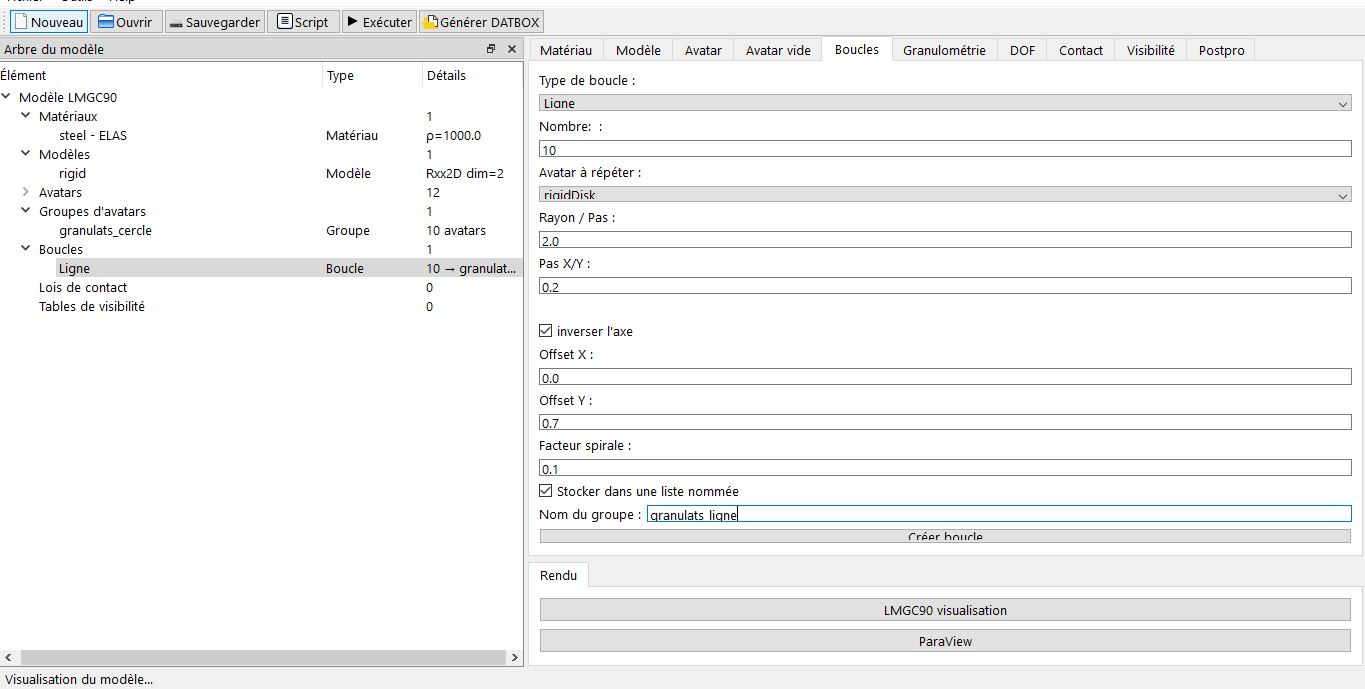
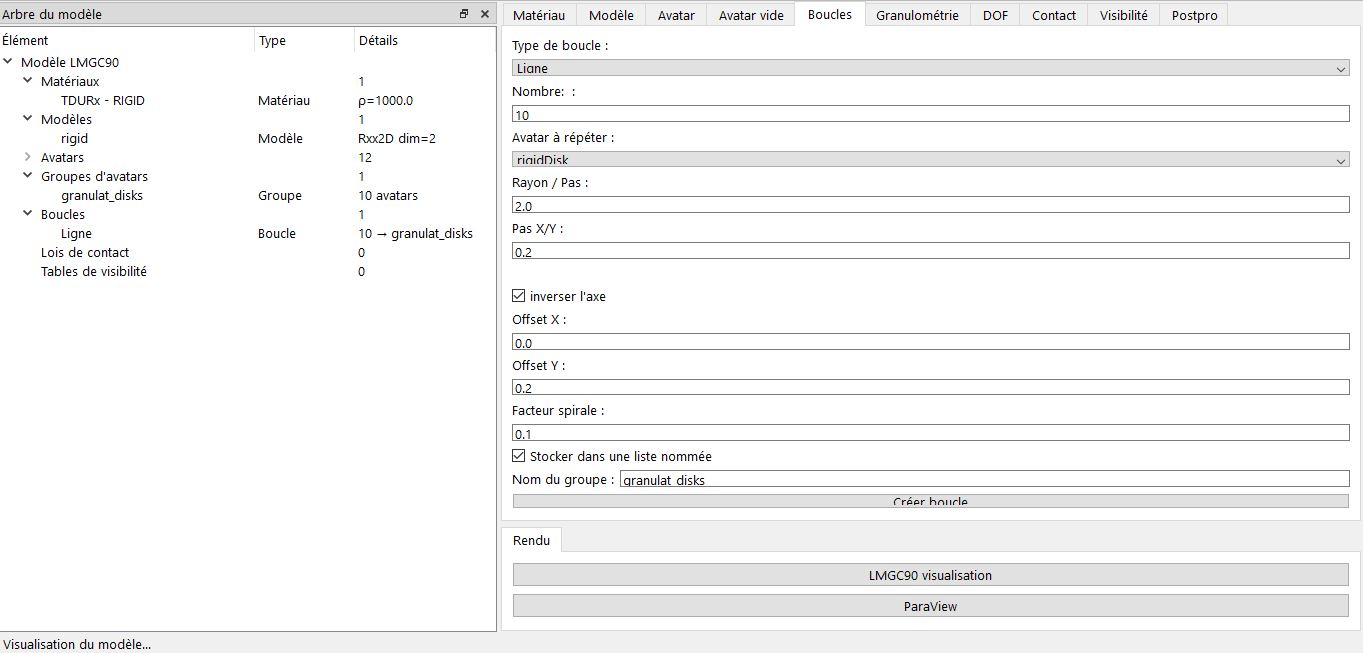
fix french documentation

Changed region(s): [[0.0, 0.0, 1.0, 1.0], [0.2773, 0.2757, 0.3081, 0.3063], [0.1849, 0.2757, 0.2157, 0.3063]]

diff --git a/docs/granulometry.md b/docs/granulometry.md
@@ -1,20 +1,50 @@
 # Granulométrie et Dépôt
 
-Génération de dépôts granulaires réalistes.
+Cette section sert à génération de dépôts granulaires.
 
 ## Paramètres
-- Nombre de particules
-- Rayon min/max
-- Seed (reproductibilité)
-- Type de conteneur : Box2D, Disk2D
+- Nombre de particules à générer
+- Distribution aléatoire des rayons entre `rmin` et `rmax`
+- [x]Seed (reproductibilité)
+- Type de conteneur : Box2D, Disk2D, Couette2D, Drum2D
 - Avatar modèle (sélectionné parmi les avatars manuels)
 - Couleur des particules
-- Option : créer murs autour (Box2D)
+- [x]Option : créer murs autour (Box2D)
 - Option : stocker dans groupe nommé
 
 ## Fonctionnement
-1. Utilise `granulo_Random` pour les rayons
-2. Utilise `depositInBox2D` ou `depositInDisk2D`
-3. Recrée fidèlement l’avatar modèle avec taille variable
+1. Utilise la fonction `granulo_Random` pour la ditribution
+2. Utilise les fonctions `depositInBox2D`, `depositInDisk2D`, `depositInCouette2D` et `depositInDrum2D`
 
-> À compléter : capture avant/après génération
+
+## Exemple
+Cet exemple n'est pas concret mais montre seulement les proprétés de vos granulométries
+| Champ | Description | Exemple |
+|-------|-------------|---------|
+| **Nombre de particules** | Nombre total de particules à générer | `200` |
+| **Rayon Min (rmin)** | Rayon minimum des particules | `0.05` |
+| **Rayon Max (rmax)** | Rayon maximum des particules | `0.15` |
+
+
+| Conteneur | Paramètres | Description |
+|-----------|------------|-------------|
+| dans mon cas **Box2D** | `lx`, `ly` | Boîte rectangulaire |    
+| **Disk2D** | `r` | Disque circulaire |
+| **Couette2D** | `rint`, `rext` | Anneau (cellule de Couette) |
+| **Drum2D** | `r` | Tambour rotatif |
+
+#### 3. Propriétés Physiques
+
+| Champ | Description |
+|-------|-------------|
+| **Matériau** | Matériau à appliquer aux particules |
+| **Modèle** | Modèle physique (généralement `Rxx2D`) |
+| **Couleur** | Couleur des particules (`BLUEx`, `REDxx`, etc.) |
+| **Type d'avatar** | Avatar modèle pour la forme des particules (rigidDisk)  |
+
+IL ne vous reste de cliquer sur le bouton 'Générer de dépôt'
+
+![](captures/depot_granulo_disk_jonc.JPG)
+
+Le rendu de mon modèle, 
+![](captures/rendu_depot_granulo_disk_jonc.JPG)

diff --git a/docs/loops.md b/docs/loops.md
@@ -13,11 +13,25 @@ Vous avez plusieurs formes :
 ## Paramètres
 Il vous suffit seulement de remplir les champs pour chaque forme :  
 - Avatar modèle à répéter : rigidDisk, etc.
-- Nombre 
+- Nombre d'avatars . répéter
 - Rayon pour la forme circle / pas gille et ligne  / offsets (X et Y)
-- Option : stocker dans une liste nommée : 
+- Option : stocker dans une liste nommée 
+## exemple 
+Dans mon exemple je vais créer une répétirion linàire de RigidDisk, suivant l'axe y, 
+- Après avoir créer une fondation RigidJonc, 
+- Type de bpoucle : linéaire, 
+- Nombre : 10,
+- Avatar à répéter : rigidDisk, 
+- Pas : 0.2 (rayon disk égal à 0.1)
+- j'ai coché la case (inverser la direction),
+- Offset Y égal 0.2,
+- j'ai coché la case stocker dans un groupe  : granulats_disks
+
 
 ![](captures/boucle_disk_ligne.JPG)
+
+Pour avoir le rendu de mon modèle je clique simplement sur le bouton 'LMGC90 visualisation'
+![](captures/rendu_boucle_disk_ligne.JPG)
 
 ## Utilisation
 Idéal pour générer des murs, empilements réguliers d'avatars,

diff --git a/docs/dof.md b/docs/dof.md
@@ -11,4 +11,6 @@ Application de conditions aux limites ( déplacements ou vitesses imposés) sur 
 Tous les groupes (boucles, granulométrie) apparaissent dans la liste
 
 ## Exemple
-Rotation d’un manivelle ou translation d’un piston
+Vous pour ouvrir l'exemple de bielle-manivelle fournit dans les exemples, 'slider_crank.lmgc90' dans lequel on avait appliué quatre différents DOFs, 
+
+![](captures/exemple_slider_crank.JPG)
